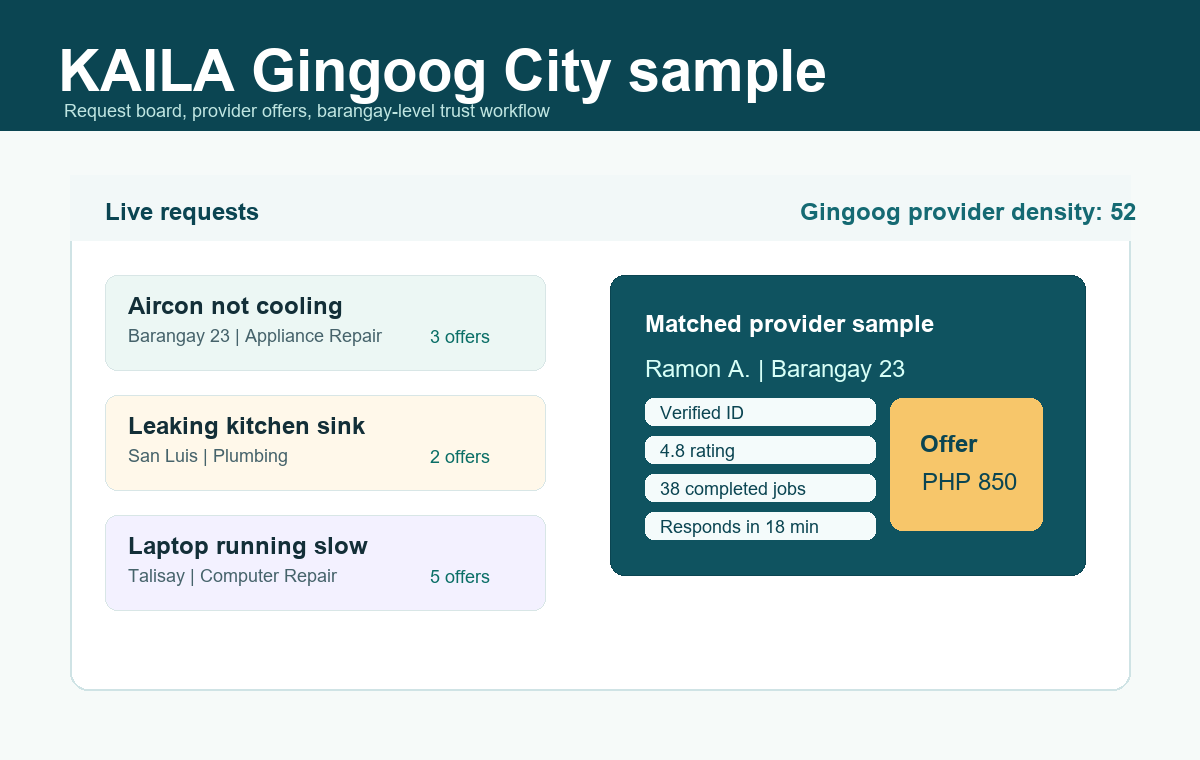
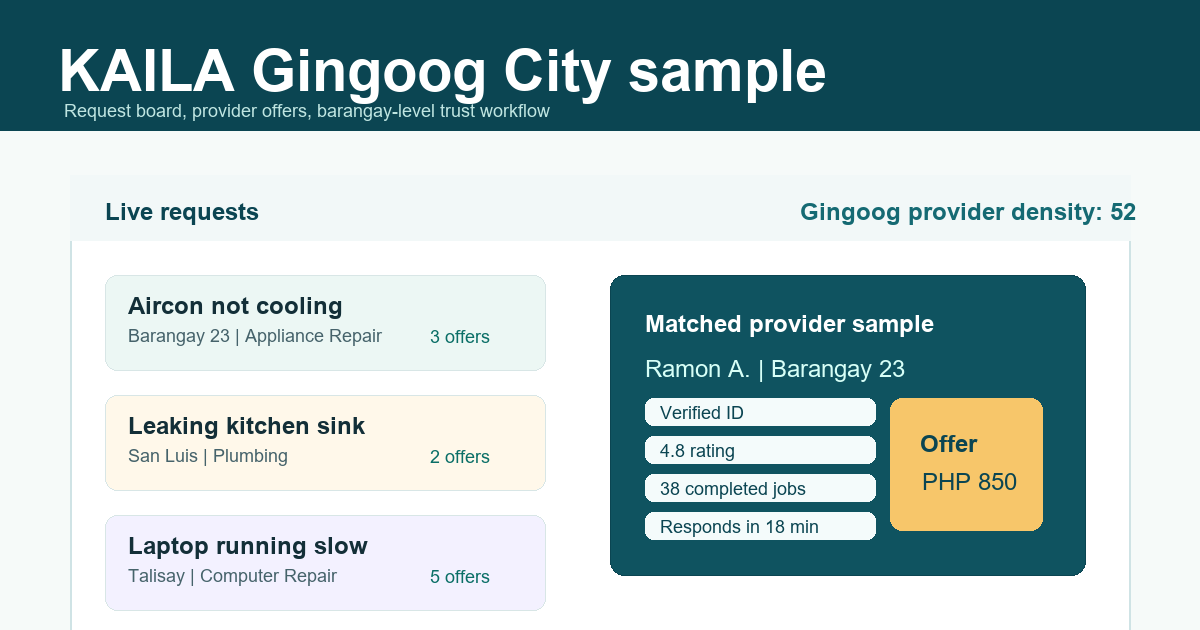
feat(og-meta): add image dimensions and alt text for improved Open Graph sharing

diff --git a/index.html b/index.html
@@ -18,6 +18,8 @@
   <meta property="og:title" content="KAILA | Find Trusted Local Services in Gingoog City">
   <meta property="og:description" content="Post service requests, compare local offers, chat with providers, and track job completion in one mobile-first marketplace.">
   <meta property="og:image" content="https://kaila-app.duckdns.org/assets/kaila-preview.png">
+  <meta property="og:image:width" content="1200">
+  <meta property="og:image:height" content="630">
   <meta property="og:image:alt" content="KAILA local services marketplace preview">
   <meta property="og:locale" content="en_PH">
   <meta name="twitter:card" content="summary_large_image">
